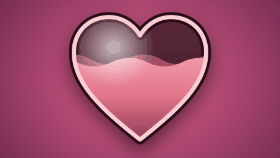
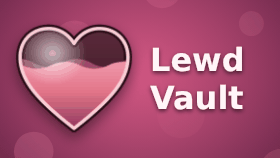
PS Vita: back to the earlier LiveArea design (the gate in the middle, the two vault tiles either side, the numbers along the bottom)
Claude-Session: https://claude.ai/code/session_01SZvkw6pZY31CdHecySNfG5

diff --git a/vita/src/livearea.c b/vita/src/livearea.c
@@ -1,5 +1,5 @@
-// The LiveArea page (sce_sys/livearea/contents/template.xml): its first launcher opens the Google
-// Drive vault and its second the vault on the card, straight away; the panel under the heart shows
+// The LiveArea page (sce_sys/livearea/contents/template.xml): its left frame opens the Google Drive
+// vault and its right frame the vault on the card, straight away; the strip along the bottom shows
 // the vault's numbers. Compiled inside main.c (#include "livearea.c").
 //
 // A frame's target is psgm:play?titleid=LWDV00001&param=drive (or local): the system starts the app
@@ -72,13 +72,13 @@ static void la_update_stats(void) {
   if (!loaded_vault || decoy_session) return;
   static int loaded;
   if (!loaded) { sceSysmoduleLoadModule(SCE_SYSMODULE_LIVEAREA); loaded = 1; }
-  // (the panel's picture, next to the page it's written into)
+  // (the strip's picture, next to the page it's written into)
   sceIoMkdir(DATA "/livearea", 0777);
   SceIoStat st;
-  if (sceIoGetstat(DATA "/livearea/stats.png", &st) < 0) {
+  if (sceIoGetstat(DATA "/livearea/strip.png", &st) < 0) {
     size_t n = 0;
-    uint8_t *b = lv_read_all("app0:sce_sys/livearea/contents/stats.png", NULL, &n);
-    if (b) { FILE *f = fopen(DATA "/livearea/stats.png", "wb"); if (f) { fwrite(b, 1, n, f); fclose(f); } free(b); }
+    uint8_t *b = lv_read_all("app0:sce_sys/livearea/contents/strip.png", NULL, &n);
+    if (b) { FILE *f = fopen(DATA "/livearea/strip.png", "wb"); if (f) { fwrite(b, 1, n, f); fclose(f); } free(b); }
   }
   long long hearts = 0;
   double secs = 0;
@@ -88,7 +88,7 @@ static void la_update_stats(void) {
   if (secs >= 3600) snprintf(time_s, sizeof time_s, "%d h %d min", (int)(secs / 3600), (int)secs % 3600 / 60);
   else snprintf(time_s, sizeof time_s, "%d min", (int)(secs / 60));
   // (only numbers and the folder's name: what's in the vault never shows outside the app)
-  snprintf(line, sizeof line, "%s%s\n%d items  \u00b7  %lld hearts\n%s spent looking", is_drive_vault(vault.root) ? "\u2601 " : "", nm ? nm + 1 : vault.root, vault.n, hearts, time_s);
+  snprintf(line, sizeof line, "%s%s  ·  %d items  ·  %lld hearts  ·  %s looking", is_drive_vault(vault.root) ? "☁ " : "", nm ? nm + 1 : vault.root, vault.n, hearts, time_s);
   char xml[1200], esc[600];
   size_t o = 0;
   for (const char *p = line; *p && o + 6 < sizeof esc; p++) {
@@ -98,9 +98,9 @@ static void la_update_stats(void) {
   }
   esc[o] = 0;
   int n = snprintf(xml, sizeof xml,
-    "<?xml version=\"1.0\" encoding=\"utf-8\"?><update-frame><frame id=\"frame7\"><liveitem><background>stats.png</background>"
-    "<text valign=\"center\" align=\"left\" text-align=\"left\" text-valign=\"center\" word-wrap=\"on\" ellipsis=\"on\" x=\"40\" width=\"290\">"
-    "<str size=\"20\" color=\"#fff5f8\" shadow=\"on\">%s</str></text></liveitem></frame></update-frame>", esc);
+    "<?xml version=\"1.0\" encoding=\"utf-8\"?><update-frame><frame id=\"frame3\"><liveitem><background>strip.png</background>"
+    "<text valign=\"center\" align=\"left\" text-align=\"left\" text-valign=\"center\" word-wrap=\"off\" ellipsis=\"on\" x=\"36\">"
+    "<str size=\"22\" color=\"#fff5f8\" shadow=\"on\">%s</str></text></liveitem></frame></update-frame>", esc);
   int r = sceLiveAreaUpdateFrameSync("01.00", xml, n, DATA "/livearea", 0);
   LOG("livearea update: %08x\n", r);
   (void)r;

diff --git a/vita/README.md b/vita/README.md
@@ -118,10 +118,10 @@ you leave the screen (`src/wifi.c`).
 
 ## The LiveArea
 
-The page behind the bubble (`sce_sys/livearea/contents`, drawn by `tools/make-livearea.mjs`, style
-a5): the heart is the gate that starts the app as usual; two slim launchers beside it open the
-**Google Drive vault** and the **vault on the card** straight away (past the PIN lock, if there is
-one); the panel under the heart shows the vault's numbers (items, hearts, time spent looking),
+The page behind the bubble (`sce_sys/livearea/contents`, drawn by `tools/make-livearea.mjs`): the
+gate in the middle starts the app as usual; the frame on its left opens the **Google Drive vault**
+and the one on its right the **vault on the card**, straight away (past the PIN lock, if there is
+one); the strip along the bottom shows the vault's numbers (items, hearts, time spent looking),
 written by the app whenever a vault opens (`src/livearea.c`). The Google Drive vault is the one
 "Get it from Drive" made (a vault of its own, its folder ending in "(Drive)") or one that has been
 synced; with none on the card yet, its frame opens Google Drive's screen to get it.
